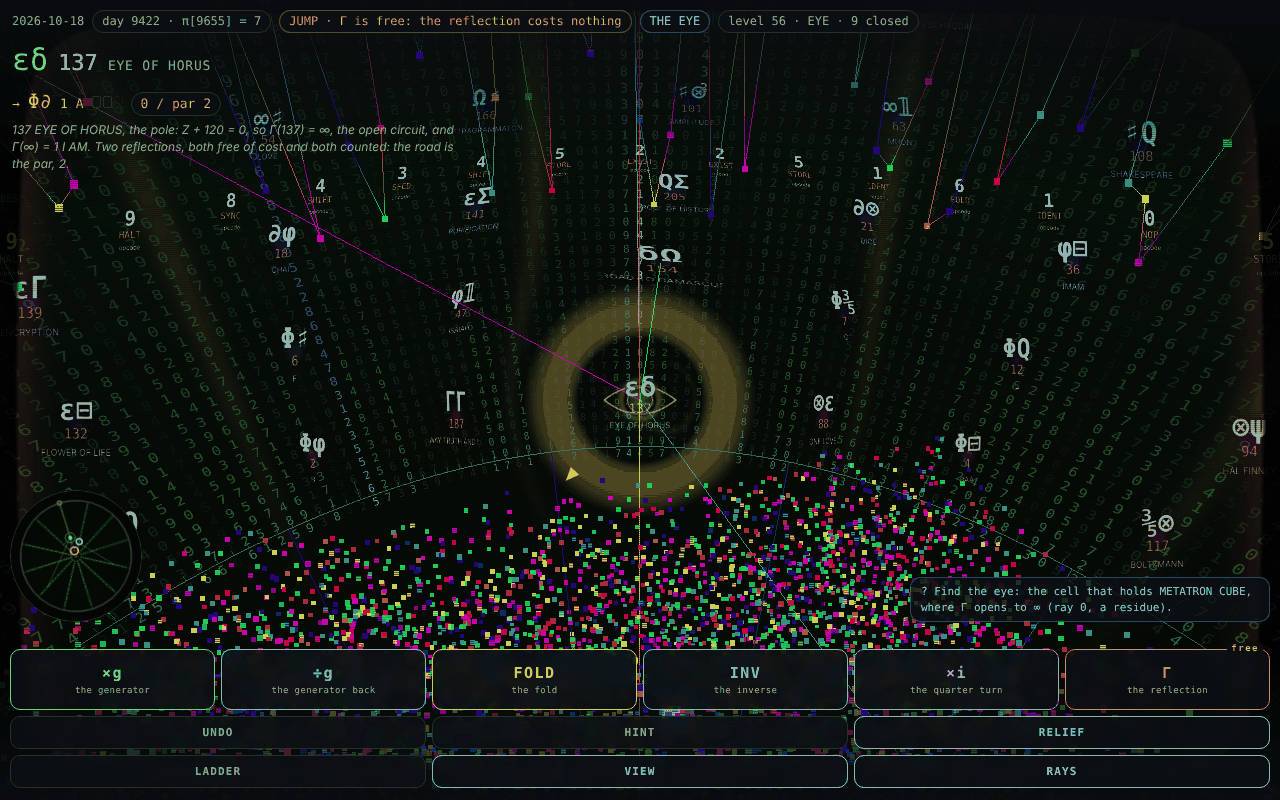
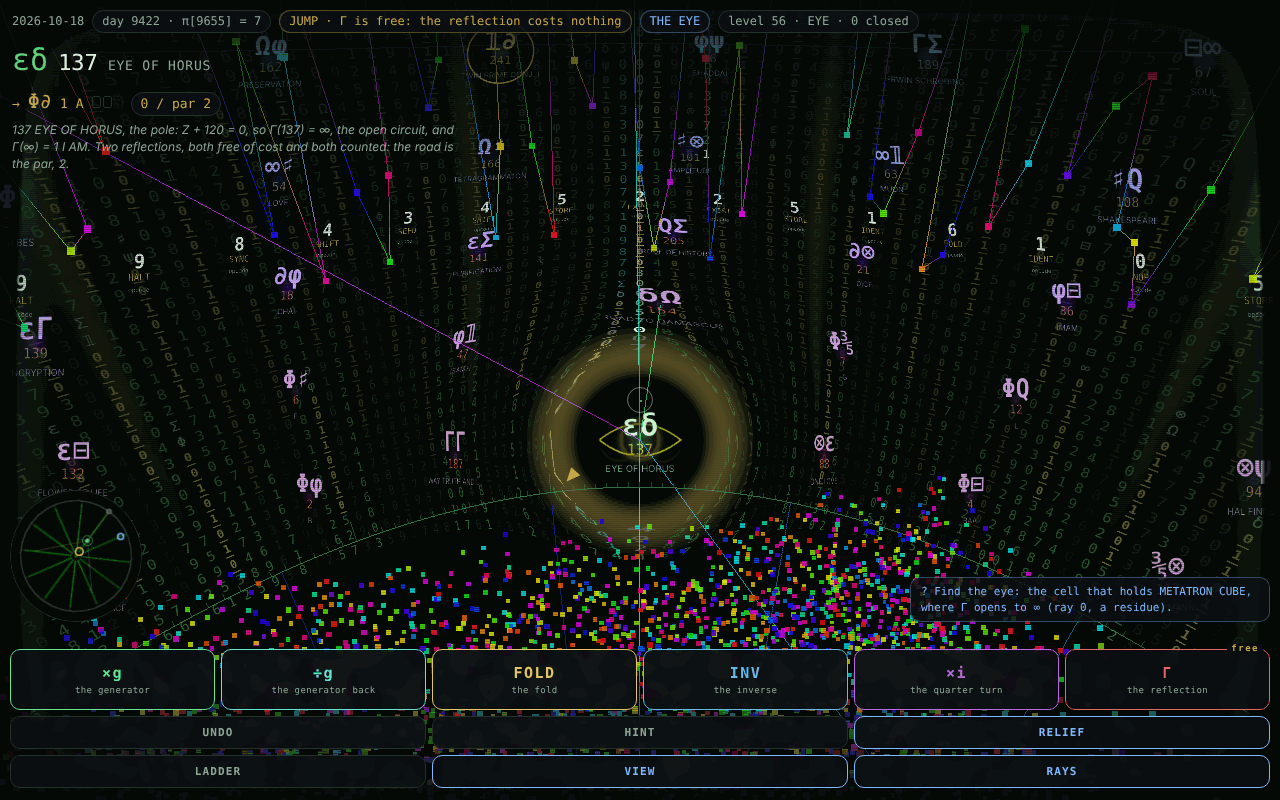
README: the rain's code and the rain bent round the eye
Claude-Session: https://claude.ai/code/session_01NYryfUyMyf7rewxsaKs51F

diff --git a/README.md b/README.md
@@ -35,11 +35,12 @@ Level 3 (EXIST, chapter SUNRISE) in play, the view tipped down onto the chapter'
 
 ![The π rain](docs/screenshots/rain.png)
 
-Chapter 5's level 33: the π tape as rain at full tier, 256 columns of 78 digits behind the cells.
+Chapter 5's level 33: the π tape as rain at full tier, 256 columns of 78 digits behind the cells, written in the field's glyphs and
+binary (each column's glyph pair and its dlog in gold bits), the level's window read out of it in the true digits.
 
 ![The eye as a black hole](docs/screenshots/eye.png)
 
-Level 56, THE EYE: 137's shadow in its gold photon ring at full lens tier, the sky and the cells bent round it.
+Level 56, THE EYE: 137's shadow in its gold photon ring at full lens tier, the sky, the rain and the cells bent round it.
 
 ![The bardo card](docs/screenshots/bardo.png)
 
